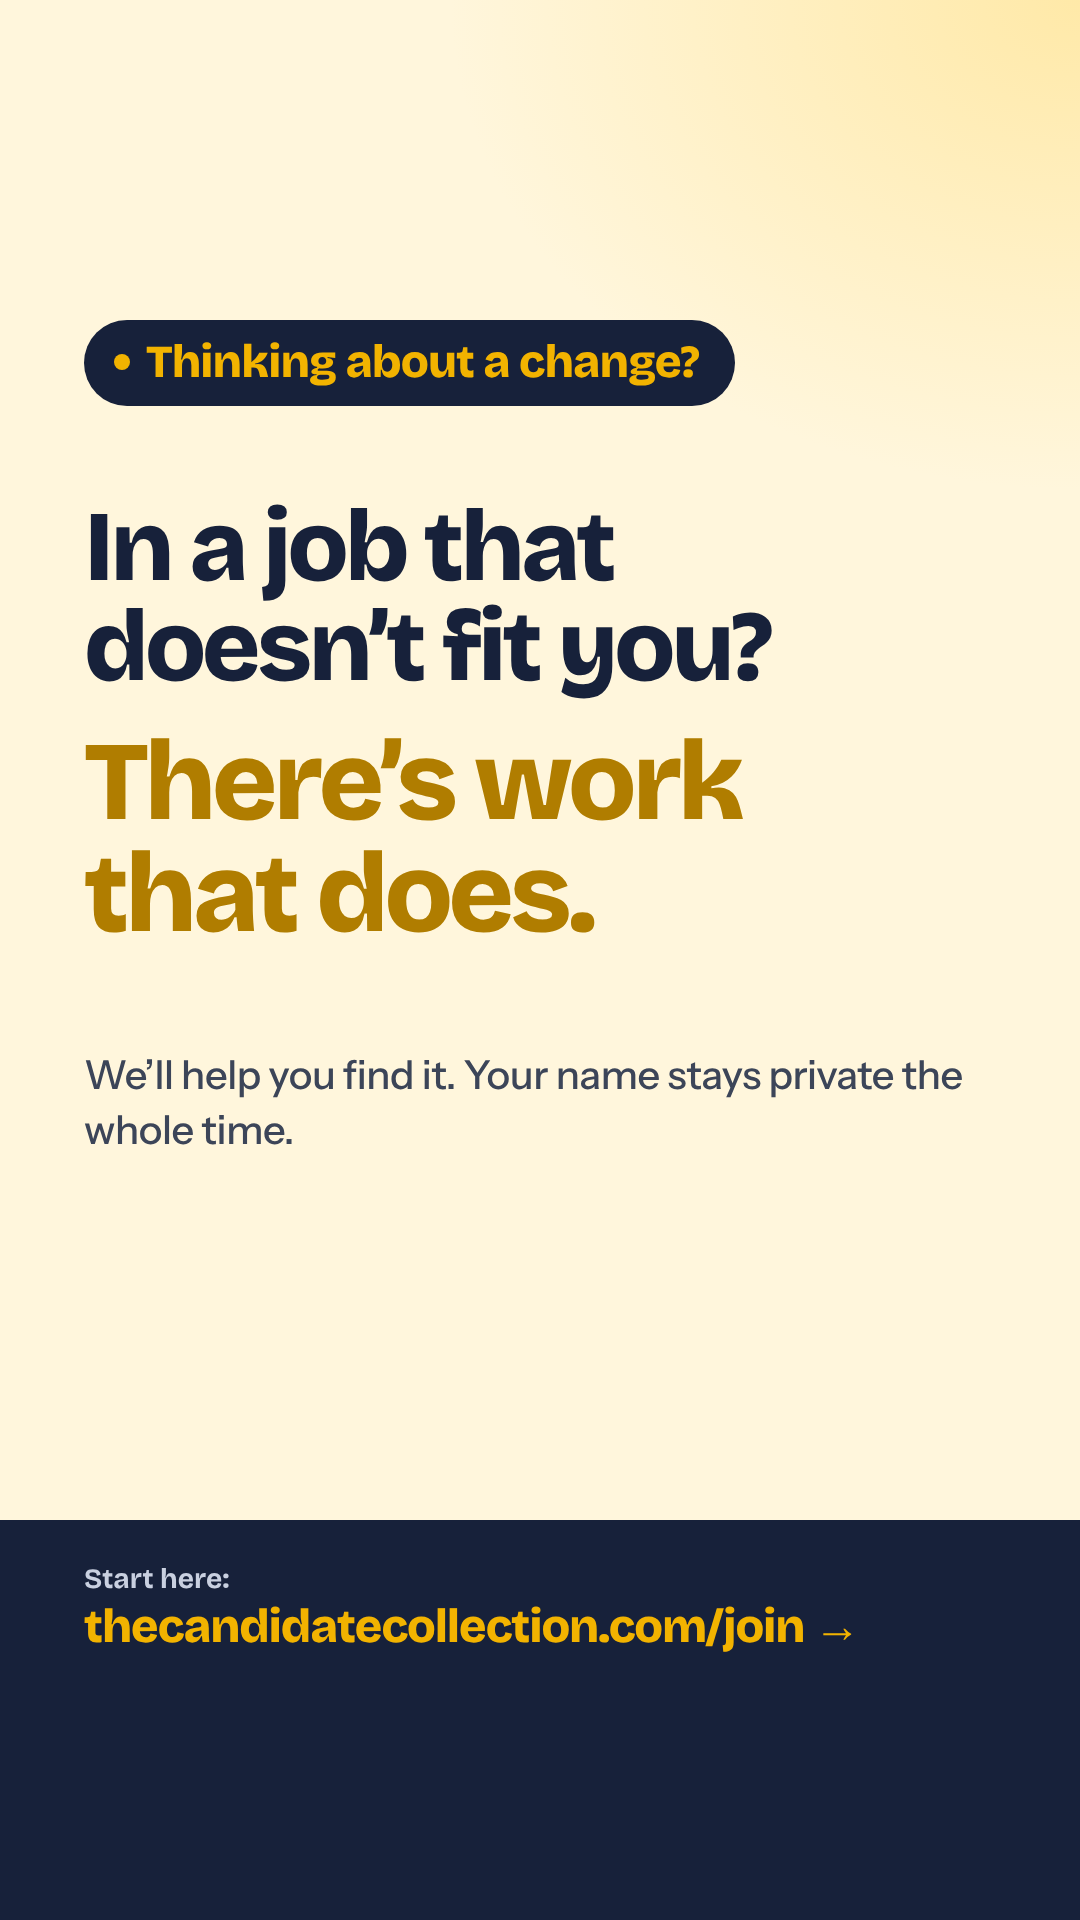
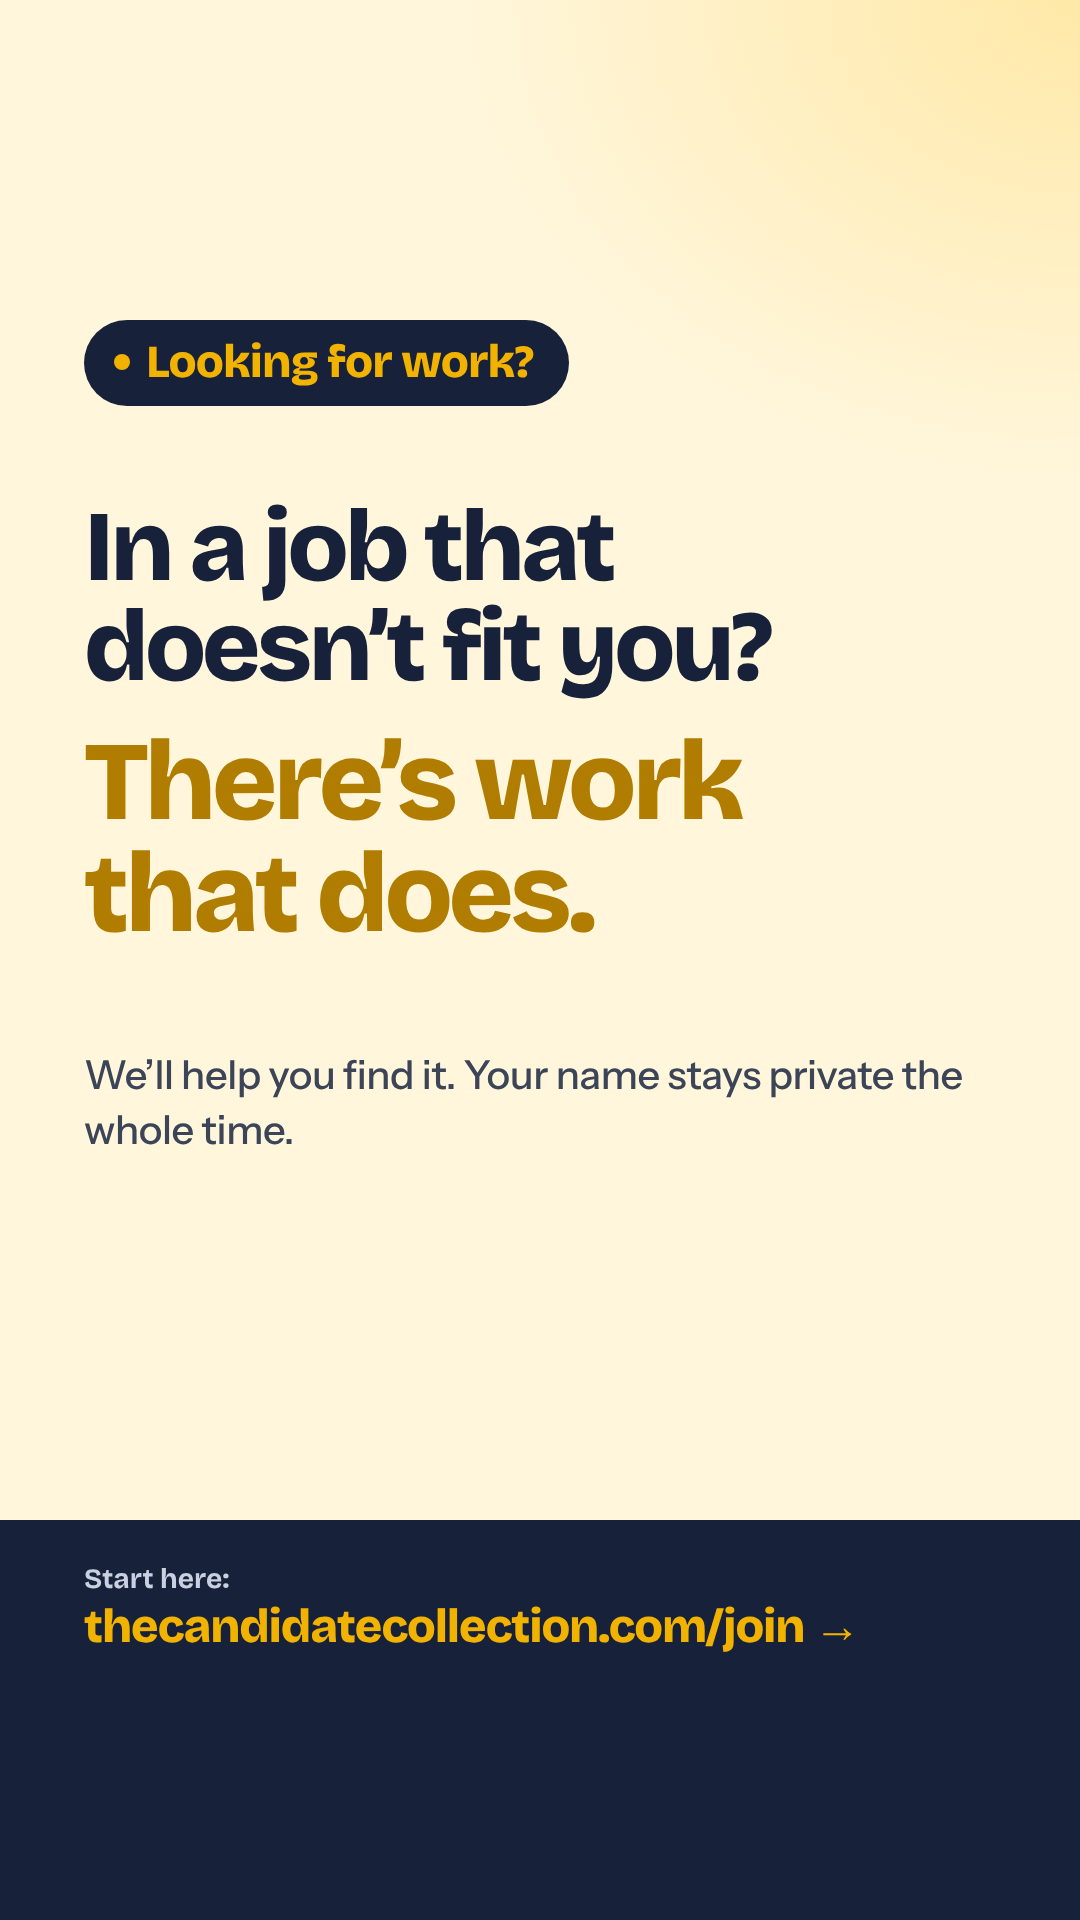
Candidate poster: 'Looking for work?' label on all
Claude-Session: https://claude.ai/code/session_01EZeEyNzeQFPN4DFsUvzuMe

Changed region(s): [[0.1222, 0.1562, 0.6722, 0.2188]]

diff --git a/design/posters/cand2.html b/design/posters/cand2.html
@@ -22,7 +22,7 @@ body{width:1080px;height:var(--H,1350px);font-family:I;position:relative;overflo
 <p class="d q">Somewhere, a<br>business owner<br>needs exactly</p><p class="d a" style="margin-top:0">what you do.</p>
 <p class="t">We sit down with you, find what you’re naturally great at, and introduce you.</p>
 </div><div class="band"><div class="x">Start here:</div><div class="y">thecandidatecollection.com/join →</div></div></div>
-<div class="v v3"><div class="in"><span class="pill"><i></i>Thinking about a change?</span>
+<div class="v v3"><div class="in"><span class="pill"><i></i>Looking for work?</span>
 <p class="d q">In a job that<br>doesn’t fit you?</p><p class="d a">There’s work<br>that does.</p>
 <p class="t">We’ll help you find it. Your name stays private the whole time.</p>
 </div><div class="band"><div class="x">Start here:</div><div class="y">thecandidatecollection.com/join →</div></div></div>
